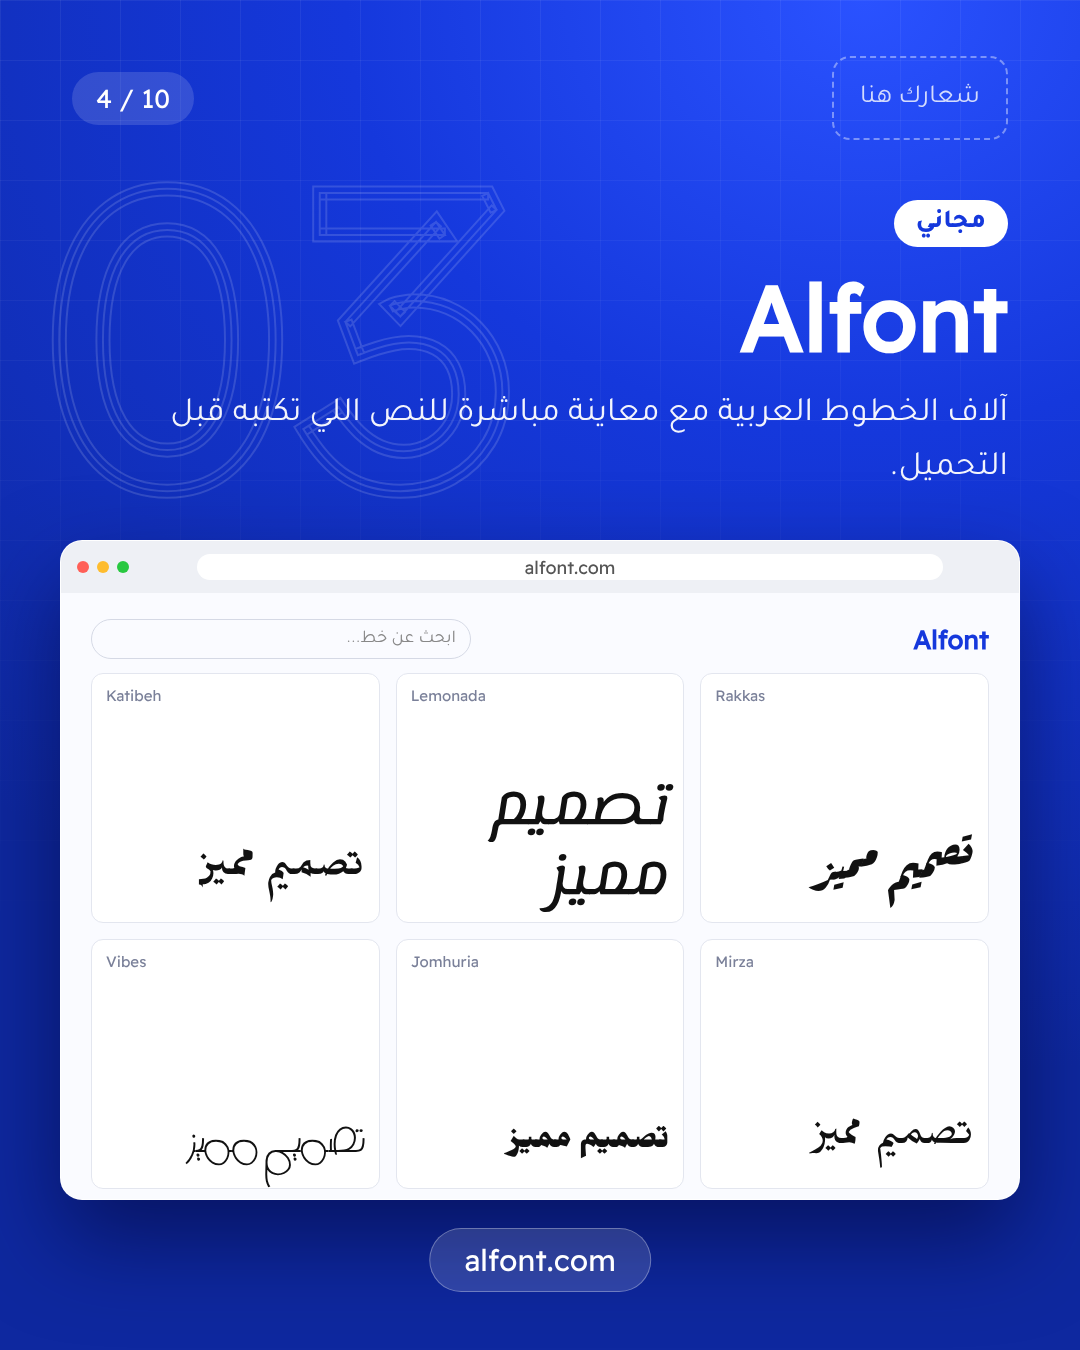
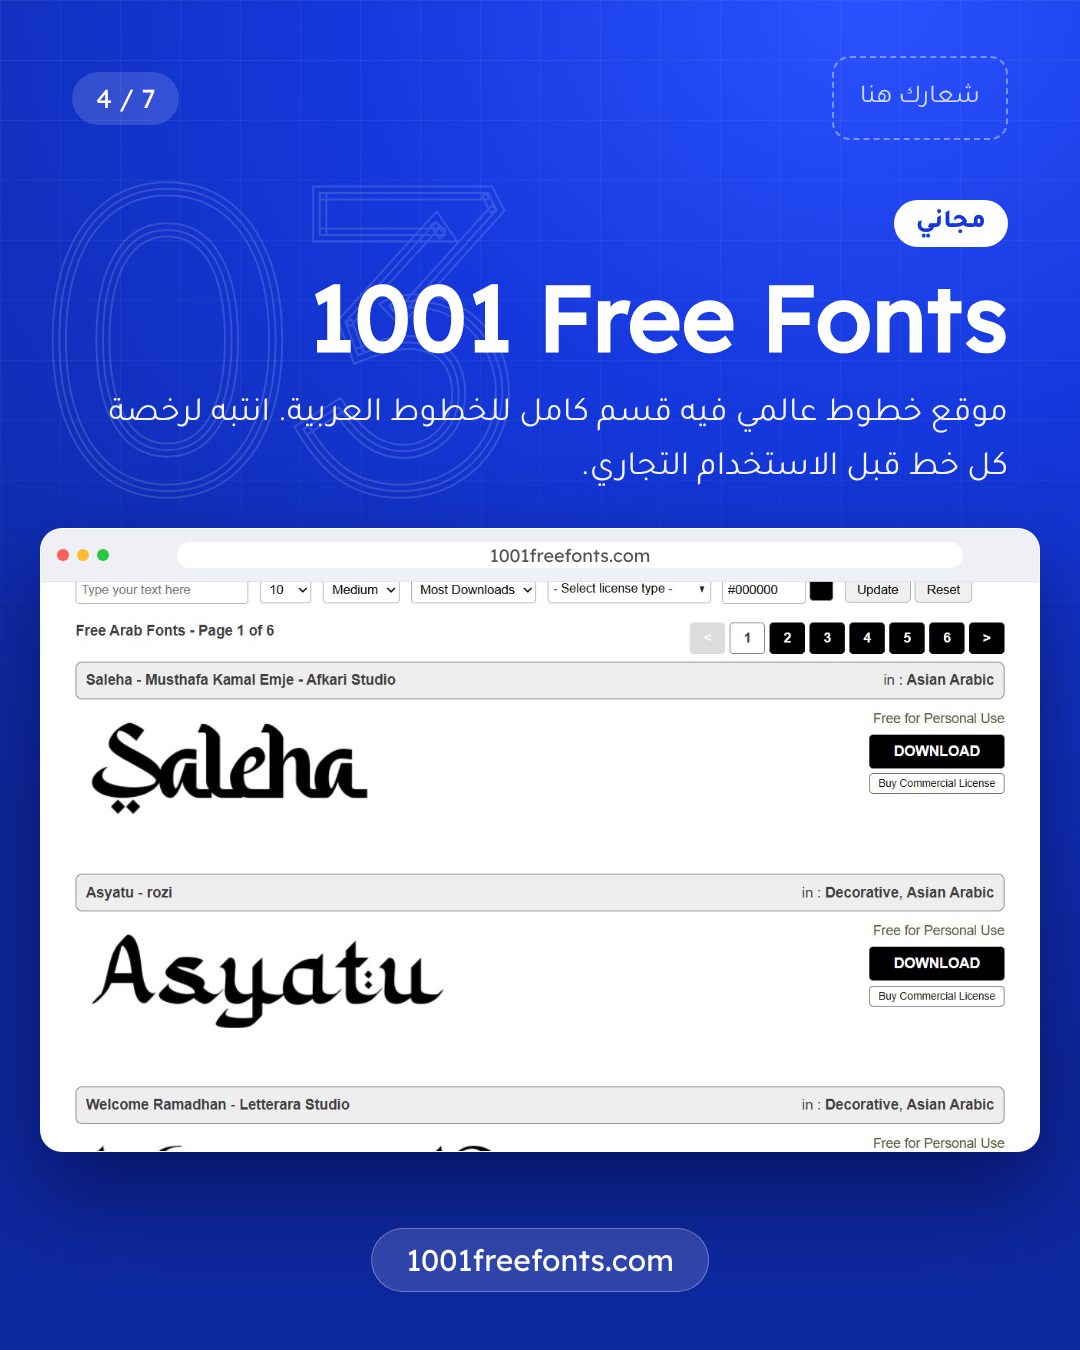
Use real site screenshots (ads removed), 5 sites, no laptop
Claude-Session: https://claude.ai/code/session_01HmuEa4Kje77rHMqSMNYbVn

diff --git a/arabic-fonts-posts/build.py b/arabic-fonts-posts/build.py
@@ -5,34 +5,20 @@ HERE = pathlib.Path(__file__).parent
 BLUE, DARK = "#1538dc", "#0e289f"
 
 SITES = [
- dict(n="01", name="Google Fonts", url="fonts.google.com", tag="مجاني",
-      desc="مكتبة ضخمة من خطوط جوجل، فيها فلتر للخطوط العربية تقدر تجربها وتحملها وتستخدمها تجارياً.",
-      fonts=["Cairo","Tajawal","Almarai","Amiri","Reem Kufi","El Messiri"]),
- dict(n="02", name="Arabic Fonts", url="arabicfonts.net", tag="مجاني",
-      desc="موقع متخصص بالخطوط العربية، مقسّم حسب النوع: كوفي، نسخ، ديواني ورقعة.",
-      fonts=["Lalezar","Changa","Aref Ruqaa","Mada","Harmattan","Marhey"]),
- dict(n="03", name="Alfont", url="alfont.com", tag="مجاني",
-      desc="آلاف الخطوط العربية مع معاينة مباشرة للنص اللي تكتبه قبل التحميل.",
-      fonts=["Rakkas","Lemonada","Katibeh","Mirza","Jomhuria","Vibes"]),
- dict(n="04", name="1001 Free Fonts", url="1001freefonts.com", tag="مجاني",
-      desc="موقع خطوط عالمي فيه قسم كامل للخطوط العربية. انتبه لرخصة كل خط قبل الاستخدام التجاري.",
-      fonts=["Kufam","Blaka","Qahiri","Messiri","Ruwudu","Reem Kufi Ink"]),
- dict(n="05", name="29LT", url="29lt.com", tag="احترافي",
-      desc="مسبك خطوط عربي احترافي، خطوطه مصممة بعناية للهويات والعلامات التجارية.",
-      fonts=["Readex Pro","Alexandria","Noto Kufi Arabic","Rubik","IBM Plex Sans Arabic","Baloo Bhaijaan 2"]),
- dict(n="06", name="TPTQ Arabic", url="tptq-arabic.com", tag="احترافي",
-      desc="مسبك متخصص بالخط العربي، من أعماله خط Greta Arabic، ومن عملائه الجزيرة واللوفر أبوظبي.",
-      fonts=["Noto Sans Arabic","Vazirmatn","Zain","Playpen Sans Arabic","Handjet","Beiruti"]),
- dict(n="07", name="Adobe Fonts", url="fonts.adobe.com", tag="مع الاشتراك",
-      desc="متاح مع اشتراك أدوبي، يتفعّل الخط مباشرة داخل فوتوشوب وإليستريتور.",
-      fonts=["Noto Naskh Arabic","Scheherazade New","Amiri","Lateef","Gulzar","Kufam"]),
- dict(n="08", name="MyFonts", url="myfonts.com", tag="مدفوع",
-      desc="سوق خطوط عالمي فيه قسم كبير للخطوط العربية من مصممين ومسابك مختلفة.",
-      fonts=["Almarai","Cairo Play","Badeen Display","Tajawal","Changa","El Messiri"]),
+ dict(n="01", name="Alfont", url="alfont.com", tag="مجاني",
+      desc="آلاف الخطوط العربية، تكتب النص اللي تبيه وتشوف معاينته بكل الخطوط قبل التحميل.", fonts=[]),
+ dict(n="02", name="29LT", url="29lt.com", tag="احترافي",
+      desc="مسبك خطوط عربي احترافي، خطوطه مصممة بعناية ومعها خط لاتيني متناسق.", fonts=[]),
+ dict(n="03", name="1001 Free Fonts", url="1001freefonts.com", tag="مجاني",
+      desc="موقع خطوط عالمي فيه قسم كامل للخطوط العربية. انتبه لرخصة كل خط قبل الاستخدام التجاري.", fonts=[]),
+ dict(n="04", name="Adobe Fonts", url="fonts.adobe.com", tag="مع الاشتراك",
+      desc="متاح مع اشتراك أدوبي، يتفعّل الخط مباشرة داخل فوتوشوب وإليستريتور.", fonts=[]),
+ dict(n="05", name="MyFonts", url="myfonts.com", tag="مدفوع",
+      desc="من أكبر أسواق الخطوط بالعالم، فيه أكثر من 400 ألف خط منها خطوط عربية احترافية.", fonts=[]),
 ]
 SAMPLE = "تصميم مميز"
 
-ALL_FONTS = sorted({f for s in SITES for f in s["fonts"]} | {"Tajawal","Readex Pro"})
+ALL_FONTS = ["Tajawal","Readex Pro"]
 gf = "https://fonts.googleapis.com/css2?" + "&".join(
     "family="+f.replace(" ","+")+(":wght@400;700;800" if f in ("Tajawal",) else "") for f in ALL_FONTS) + "&display=block"
 
@@ -65,8 +51,9 @@ h1{{font-family:'Readex Pro';font-weight:700;font-size:92px;line-height:1.05;dir
 h2{{font-weight:700;font-size:40px;opacity:.85;margin-top:8px}}
 .desc{{font-size:34px;line-height:1.6;margin-top:22px;max-width:900px;opacity:.95}}
 /* browser window */
-.win{{position:absolute;left:60px;right:60px;bottom:150px;height:660px;border-radius:22px;overflow:hidden;background:#fff;display:flex;flex-direction:column;box-shadow:0 40px 90px rgba(0,0,40,.5);border:1px solid rgba(255,255,255,.35)}}
-.win img.shot{{width:100%;flex:1;min-height:0;object-fit:cover;object-position:top}}
+.area{{position:absolute;top:470px;bottom:140px;left:40px;right:40px;display:flex;align-items:center}}
+.win{{width:100%;max-height:100%;border-radius:22px;overflow:hidden;background:#fff;display:flex;flex-direction:column;box-shadow:0 40px 90px rgba(0,0,40,.5);border:1px solid rgba(255,255,255,.35)}}
+.win img.shot{{width:100%;display:block;min-height:0;object-fit:cover;object-position:top}}
 .laptop{{position:absolute;left:50%;transform:translateX(-50%);bottom:150px;width:960px}}
 .lid{{background:#0b0f1a;border-radius:28px 28px 0 0;padding:22px 22px 30px;box-shadow:0 40px 80px rgba(0,0,30,.45);border:2px solid #2b3245}}
 .cam{{width:10px;height:10px;border-radius:50%;background:#2b3245;margin:-12px auto 10px}}
@@ -107,7 +94,7 @@ def screen(s):
 def site_slide(s, i, t):
     return shell(f"""<div class="big">{s['n']}</div>
 <div class="head"><span class="tag">{s['tag']}</span><h1>{s['name']}</h1><div class="desc">{s['desc']}</div></div>
-<div class="win">{screen(s)}</div>
+<div class="area"><div class="win">{screen(s)}</div></div>
 <div class="url">{s['url']}</div>""", i, t)
 
 def cover(t):
@@ -116,12 +103,12 @@ def cover(t):
 .c{{position:absolute;top:230px;right:72px;left:72px}}
 .c .k{{font-size:40px;font-weight:700;opacity:.85}}
 .c h1{{font-family:'Tajawal';font-weight:800;font-size:122px;line-height:1.2;direction:rtl;text-align:right;margin-top:10px}}
-.c ul{{list-style:none;margin-top:50px;display:grid;grid-template-columns:1fr 1fr;gap:22px 40px;direction:rtl}}
+.c ul{{list-style:none;margin-top:50px;display:grid;gap:22px;direction:rtl}}
 .c li{{font-family:'Readex Pro';font-size:36px;display:flex;gap:18px;align-items:center;direction:ltr;justify-content:flex-end}}
 .c li span{{font-size:26px;background:#fff;color:{BLUE};border-radius:50%;width:54px;height:54px;display:flex;align-items:center;justify-content:center;font-weight:700}}
 .save{{position:absolute;bottom:70px;right:72px;font-size:34px;font-weight:700;display:flex;gap:14px;align-items:center}}
 .swipe{{position:absolute;bottom:70px;left:72px;font-size:30px;opacity:.85}}
-</style><div class="c"><div class="k">٨ مواقع لازم تعرفها</div><h1>أفضل مواقع<br>الخطوط العربية</h1><ul>{names}</ul></div>
+</style><div class="c"><div class="k">٥ مواقع لازم تعرفها</div><h1>أفضل مواقع<br>الخطوط العربية</h1><ul>{names}</ul></div>
 <div class="save">🔖 احفظ البوست لشغلك الجاي</div><div class="swipe">اسحب ←</div>""", 1, t)
 
 def outro(t):
